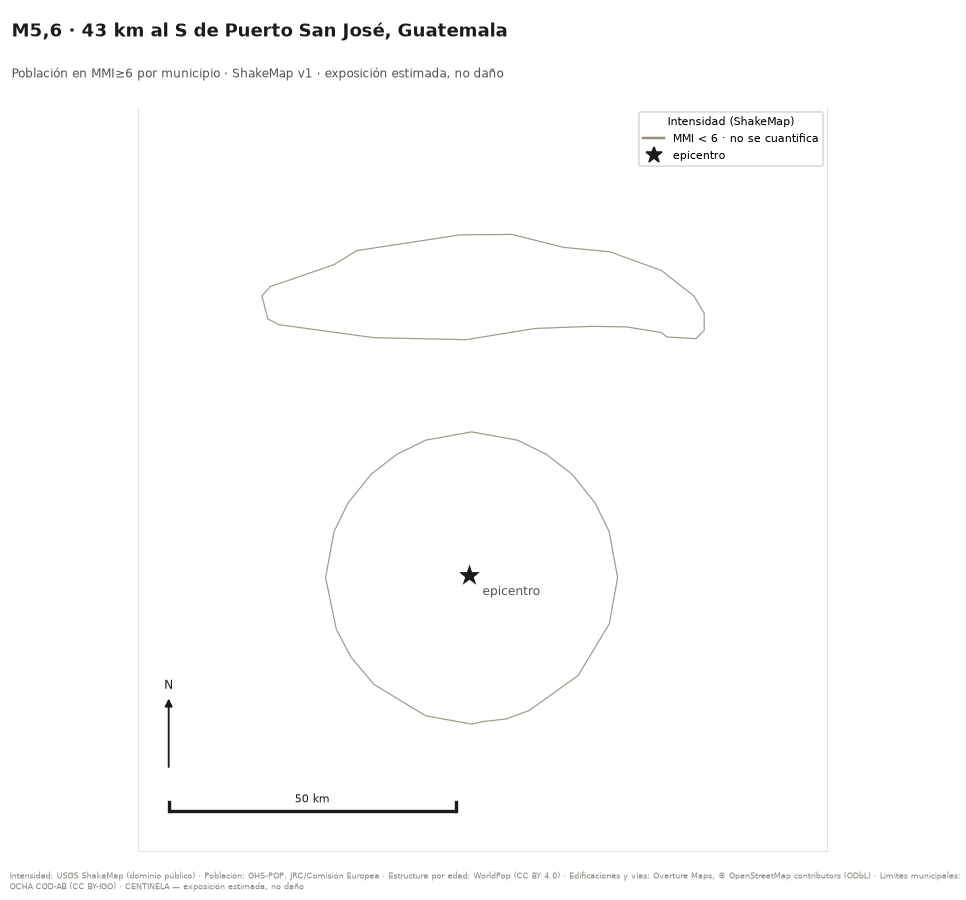
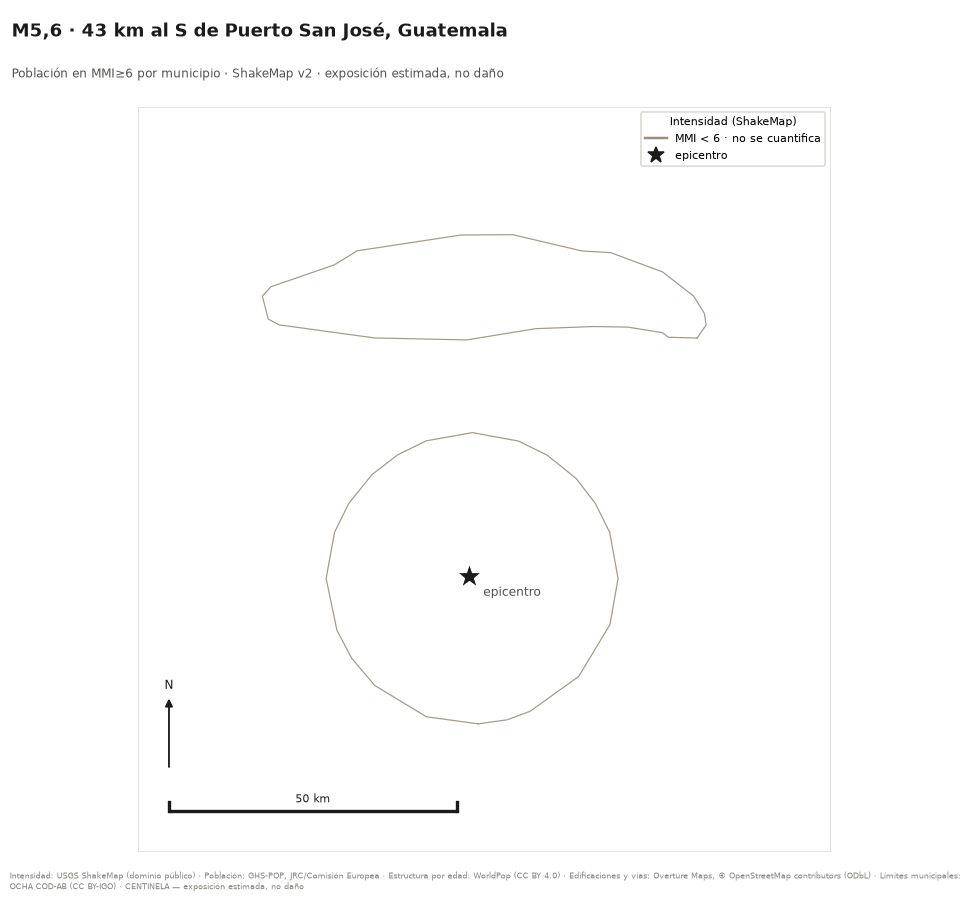
P3: reporte de us7000txb8

diff --git a/reports/us7000txb8/report.md b/reports/us7000txb8/report.md
@@ -48,6 +48,8 @@ Discrepancia entre GHS-POP y WorldPop: **no se pudo medir**. Ninguna celda dentr
 
 ## Cambios frente a la versión anterior
 
+- ShakeMap: v1 (us) → v2 (us)
+- Ninguna cifra publicada cambia frente a la versión anterior.
 - ShakeMap: v0 → v1 (us)
 - Ninguna cifra publicada cambia frente a la versión anterior.
 
@@ -58,10 +60,10 @@ Discrepancia entre GHS-POP y WorldPop: **no se pudo medir**. Ninguna celda dentr
 
 ## Procedencia
 
-- ShakeMap consumido: **v1** de `us`
+- ShakeMap consumido: **v2** de `us`
 - Ground Failure consumido: **ninguno** (no publicado aún)
 - Manifiesto de exposición: [`gtm-v0.5`](https://github.com/sforero77/CENTINELA/blob/main/data/manifests/GTM.yaml)
-- Pipeline: `0.1.0` · Generado: 2026-11-10T15:21:12Z
+- Pipeline: `0.1.0` · Generado: 2026-11-10T15:40:56Z
 
 ## Advertencias
 
